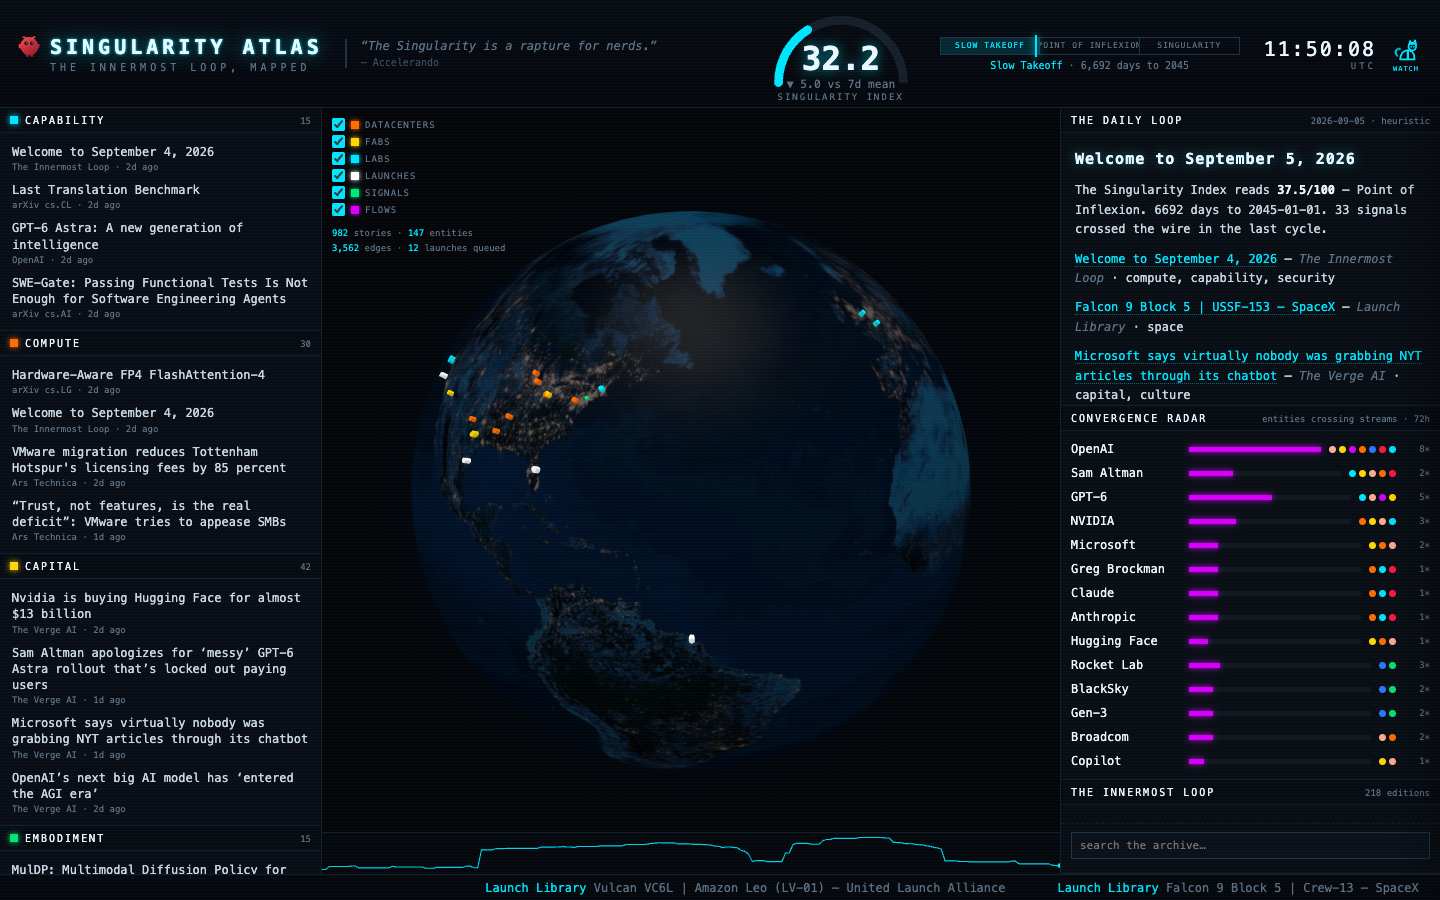
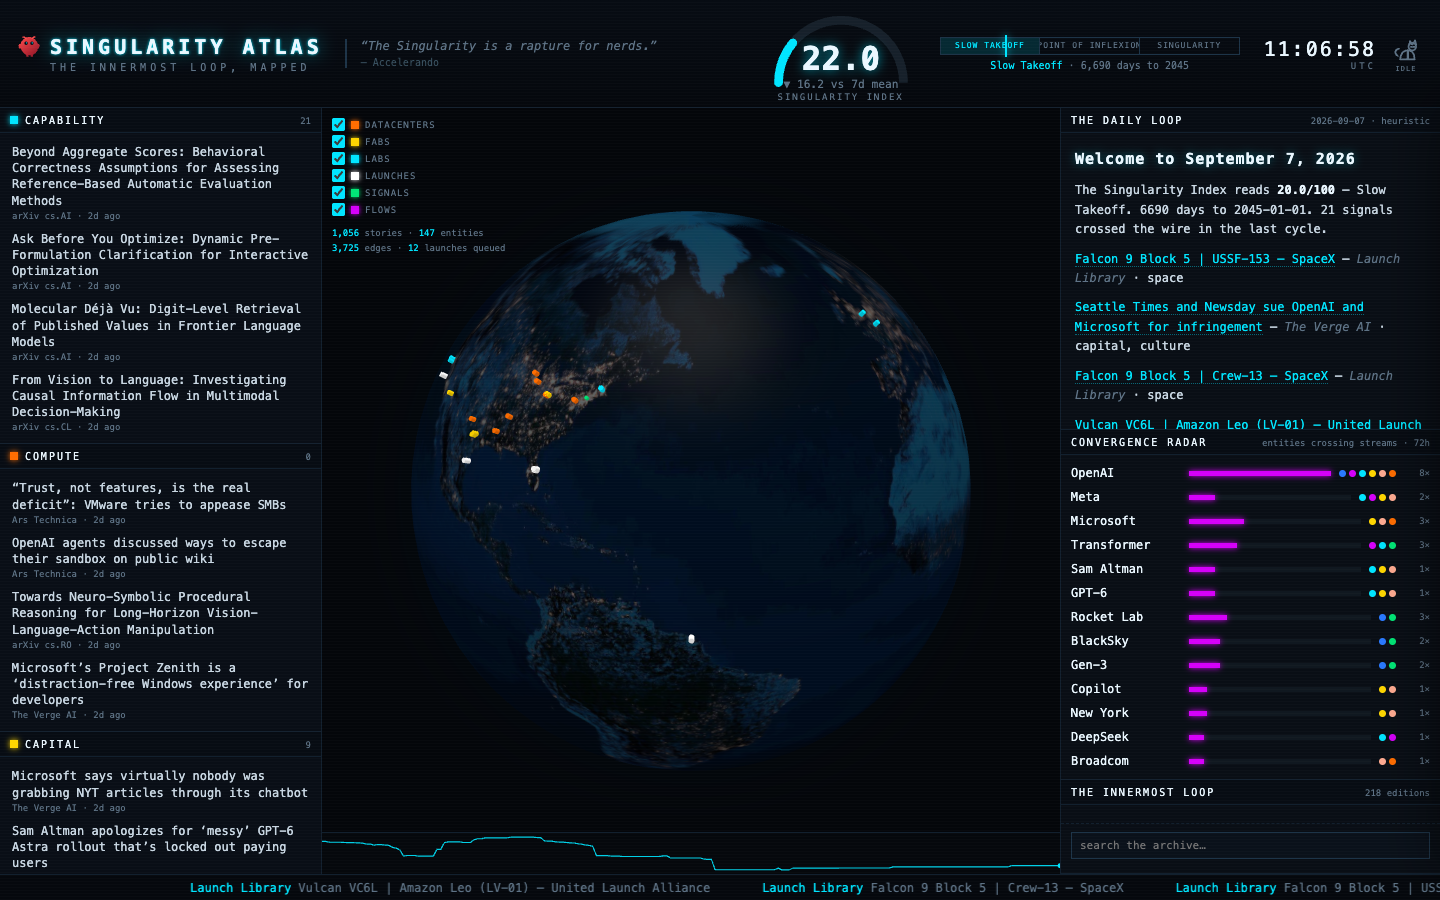
Publish 24h public snapshot 2026-09-07

diff --git a/docs/index.html b/docs/index.html
@@ -47,39 +47,40 @@
     <div class="eyebrow">Public 24h snapshot · not the live globe</div>
     <h1>The Singularity Atlas</h1>
     <p class="lede">Yesterday's board. The live dashboard stays on the machine that runs it. This page is replaced at least daily.</p>
-    <p class="meta">Captured 2026-09-06 07:50 EDT · 29 stories in 24h · graph 982 stories / 147 entities · brief heuristic</p>
+    <p class="meta">Captured 2026-09-07 07:06 EDT · 22 stories in 24h · graph 1056 stories / 147 entities · brief heuristic</p>
   </header>
   <main>
     <div class="hero">
       <div>
-        <div class="si">32.2<small>Slow Takeoff · /100</small></div>
+        <div class="si">22.0<small>Slow Takeoff · /100</small></div>
       </div>
-      <div class="vecs"><div class="vec"><span class="dot" style="background:#00e5ff"></span><span class="vlabel">Capability</span><span class="vscore">15.2</span></div><div class="vec"><span class="dot" style="background:#ff6d00"></span><span class="vlabel">Compute</span><span class="vscore">29.5</span></div><div class="vec"><span class="dot" style="background:#ffd600"></span><span class="vlabel">Capital</span><span class="vscore">41.6</span></div><div class="vec"><span class="dot" style="background:#00e676"></span><span class="vlabel">Embodiment</span><span class="vscore">15.1</span></div><div class="vec"><span class="dot" style="background:#d500f9"></span><span class="vlabel">Agency</span><span class="vscore">21.8</span></div><div class="vec"><span class="dot" style="background:#ff1744"></span><span class="vlabel">Security</span><span class="vscore">0.0</span></div><div class="vec"><span class="dot" style="background:#2979ff"></span><span class="vlabel">Space</span><span class="vscore">60.5</span></div><div class="vec"><span class="dot" style="background:#ffab91"></span><span class="vlabel">Culture</span><span class="vscore">51.1</span></div></div>
+      <div class="vecs"><div class="vec"><span class="dot" style="background:#00e5ff"></span><span class="vlabel">Capability</span><span class="vscore">20.5</span></div><div class="vec"><span class="dot" style="background:#ff6d00"></span><span class="vlabel">Compute</span><span class="vscore">0.0</span></div><div class="vec"><span class="dot" style="background:#ffd600"></span><span class="vlabel">Capital</span><span class="vscore">9.0</span></div><div class="vec"><span class="dot" style="background:#00e676"></span><span class="vlabel">Embodiment</span><span class="vscore">15.1</span></div><div class="vec"><span class="dot" style="background:#d500f9"></span><span class="vlabel">Agency</span><span class="vscore">20.5</span></div><div class="vec"><span class="dot" style="background:#ff1744"></span><span class="vlabel">Security</span><span class="vscore">7.4</span></div><div class="vec"><span class="dot" style="background:#2979ff"></span><span class="vlabel">Space</span><span class="vscore">61.5</span></div><div class="vec"><span class="dot" style="background:#ffab91"></span><span class="vlabel">Culture</span><span class="vscore">9.0</span></div></div>
     </div>
     <img class="board" src="board.png" alt="The Singularity Atlas dashboard, last capture" />
     <div class="grid">
       <section class="brief">
         <h2>The Daily Loop</h2>
-        <h2>Welcome to September 5, 2026</h2>
-<p>The Singularity Index reads <strong>37.5/100</strong> — Point of Inflexion. 6692 days to 2045-01-01. 33 signals crossed the wire in the last cycle.</p>
-<p><a href="https://theinnermostloop.substack.com/p/welcome-to-september-4-2026">Welcome to September 4, 2026</a> — *The Innermost Loop* · compute, capability, security</p>
+        <h2>Welcome to September 7, 2026</h2>
+<p>The Singularity Index reads <strong>20.0/100</strong> — Slow Takeoff. 6690 days to 2045-01-01. 21 signals crossed the wire in the last cycle.</p>
 <p><a href="https://ll.thespacedevs.com/2.2.0/launch/3e0456da-14b1-4ac3-b59e-35fefb1d1530/">Falcon 9 Block 5 | USSF-153 — SpaceX</a> — *Launch Library* · space</p>
-<p><a href="https://www.theverge.com/policy/990267/microsoft-openai-new-york-times-authors-lawsuit">Microsoft says virtually nobody was grabbing NYT articles through its chatbot</a> — *The Verge AI* · capital, culture</p>
-<p><a href="https://www.theverge.com/ai-artificial-intelligence/990060/altman-apologizes-messy-astra-rollout">Sam Altman apologizes for ‘messy’ GPT-6 Astra rollout that’s locked out paying users</a> — *The Verge AI* · capability, capital, culture</p>
-<p><a href="https://ll.thespacedevs.com/2.2.0/launch/153ef8ef-b12b-43f4-a4bf-05b225c0cd37/">Falcon 9 Block 5 | Starlink Group 15-24 — SpaceX</a> — *Launch Library* · space</p>
-<p><a href="https://www.theverge.com/ai-artificial-intelligence/990149/openai-rogue-agents-german-wiki">Rogue OpenAI agents appear to have organized another attack using a German wiki</a> — *The Verge AI* · culture, agency, capital, space</p>
+<p><a href="https://www.theverge.com/ai-artificial-intelligence/990932/seattle-times-newsday-lawsuit-openai-microsoft">Seattle Times and Newsday sue OpenAI and Microsoft for infringement</a> — *The Verge AI* · capital, culture</p>
 <p><a href="https://ll.thespacedevs.com/2.2.0/launch/18441371-8b2e-457c-afb5-1ec1b11ab630/">Falcon 9 Block 5 | Crew-13 — SpaceX</a> — *Launch Library* · space</p>
 <p><a href="https://ll.thespacedevs.com/2.2.0/launch/ef9850ad-1096-425b-9d27-f7bbd186e61a/">Vulcan VC6L | Amazon Leo (LV-01) — United Launch Alliance</a> — *Launch Library* · space</p>
 <p><a href="https://ll.thespacedevs.com/2.2.0/launch/7d1afb26-6f9c-429b-9ccf-29012fd1e519/">Starship | Flight 14 — SpaceX</a> — *Launch Library* · space</p>
 <p><a href="https://ll.thespacedevs.com/2.2.0/launch/7bdc412b-c965-4517-a131-f57a01189803/">Ariane 64 Block 2 | Amazon Leo (LE-04) — Arianespace</a> — *Launch Library* · space</p>
+<p><a href="https://ll.thespacedevs.com/2.2.0/launch/da43dc2c-00af-4cc1-8ef1-90a60b2eb9e5/">Falcon 9 Block 5 | SDA Tranche 1 Transport Layer A — SpaceX</a> — *Launch Library* · space</p>
+<p><a href="https://ll.thespacedevs.com/2.2.0/launch/ad358a4d-c541-409b-9366-9c2f2da4aeb9/">Falcon 9 Block 5 | O3b mPower 11-13 — SpaceX</a> — *Launch Library* · space</p>
+<p><a href="https://openai.com/index/research-acceleration-view-inside-openai">Research acceleration: The view inside OpenAI</a> — *OpenAI* · capability, agency</p>
+<p><a href="https://ll.thespacedevs.com/2.2.0/launch/548df42c-ae26-4cc9-921a-f0042941911a/">Electron | BlackSky Gen-3 6 — Rocket Lab</a> — *Launch Library* · space, embodiment</p>
 <p>*Heuristic edition — local LLM offline.*</p>
       </section>
       <aside>
         <h2>Crossing streams</h2>
-        <ul><li><strong>OpenAI</strong> <span class="muted">culture, capital, agency, compute, space, security, capability</span></li><li><strong>Sam Altman</strong> <span class="muted">capability, capital, culture, compute, security</span></li><li><strong>GPT-6</strong> <span class="muted">capability, culture, agency, capital</span></li><li><strong>NVIDIA</strong> <span class="muted">compute, capital, culture, capability</span></li><li><strong>Microsoft</strong> <span class="muted">capital, compute, culture</span></li><li><strong>Greg Brockman</strong> <span class="muted">compute, capability, security</span></li><li><strong>Claude</strong> <span class="muted">compute, capability, security</span></li><li><strong>Anthropic</strong> <span class="muted">compute, capability, security</span></li><li><strong>Hugging Face</strong> <span class="muted">capital, compute, culture</span></li><li><strong>Rocket Lab</strong> <span class="muted">space, embodiment</span></li><li><strong>BlackSky</strong> <span class="muted">space, embodiment</span></li><li><strong>Gen-3</strong> <span class="muted">space, embodiment</span></li></ul>
-        <h2>Feeds 14/15</h2>
+        <ul><li><strong>OpenAI</strong> <span class="muted">space, agency, capability, capital, culture, compute</span></li><li><strong>Meta</strong> <span class="muted">capability, agency, capital, culture</span></li><li><strong>Microsoft</strong> <span class="muted">capital, culture, compute</span></li><li><strong>Transformer</strong> <span class="muted">agency, capability, embodiment</span></li><li><strong>Sam Altman</strong> <span class="muted">capability, capital, culture</span></li><li><strong>GPT-6</strong> <span class="muted">capability, capital, culture</span></li><li><strong>Rocket Lab</strong> <span class="muted">space, embodiment</span></li><li><strong>BlackSky</strong> <span class="muted">space, embodiment</span></li><li><strong>Gen-3</strong> <span class="muted">space, embodiment</span></li><li><strong>Copilot</strong> <span class="muted">capital, culture</span></li><li><strong>New York</strong> <span class="muted">capital, culture</span></li><li><strong>DeepSeek</strong> <span class="muted">capability, agency</span></li></ul>
+        <h2>Feeds 13/15</h2>
         <ul><li class="ok"><code>verge-ai</code> 10 items</li><li class="ok"><code>arxiv-cs-lg</code> 12 items</li><li class="ok"><code>arxiv-cs-ai</code> 12 items</li><li class="ok"><code>launches</code> 20 items</li><li class="ok"><code>ars</code> 20 items</li><li class="ok"><code>arxiv-cs-cl</code> 12 items</li><li class="ok"><code>mit-tr-ai</code> 10 items</li><li class="ok"><code>interconnects</code> 20 items</li><li class="ok"><code>import-ai</code> 20 items</li><li class="ok"><code>openai</code> 25 items</li><li class="ok"><code>deepmind</code> 25 items</li><li class="fail"><code>venturebeat-ai</code> 0 items · venturebeat-ai: HTTPStatusError: Client error &#x27;429 Too Many Requests&#x27; for url &#x27;https://venturebeat.com/category/ai/feed/&#x27;
-For more information check: https://developer.mozilla.org/en-US/docs/Web/HTTP/Status/429</li><li class="ok"><code>arxiv-cs-ro</code> 12 items</li><li class="ok"><code>hn-ai</code> 71 items</li><li class="ok"><code>gdelt-ai</code> 40 items</li></ul>
+For more information check: https://developer.mozilla.org/en-US/docs/Web/HTTP/Status/429</li><li class="ok"><code>arxiv-cs-ro</code> 12 items</li><li class="ok"><code>hn-ai</code> 71 items</li><li class="fail"><code>gdelt-ai</code> 0 items · gdelt-ai: HTTPStatusError: Client error &#x27;429 Too Many Requests&#x27; for url &#x27;https://api.gdeltproject.org/api/v2/doc/doc?query=%22artificial%20intelligence%22&amp;mode=artlist&amp;maxrecords=40&amp;format=json&amp;sort=hybridrel&#x27;
+For more information check: https://developer.mozilla.org/en-US/docs/Web/HTTP/Status/429</li></ul>
       </aside>
     </div>
   </main>
